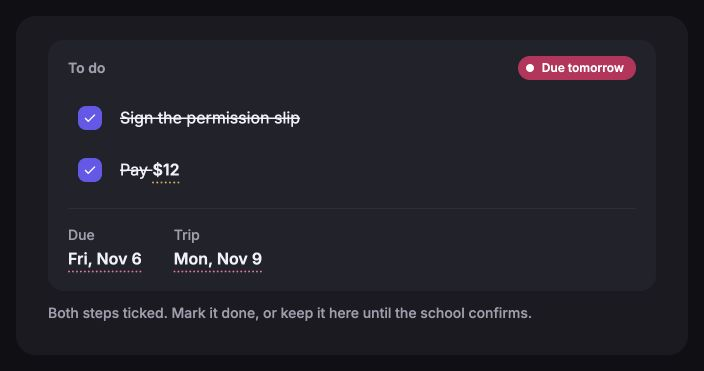
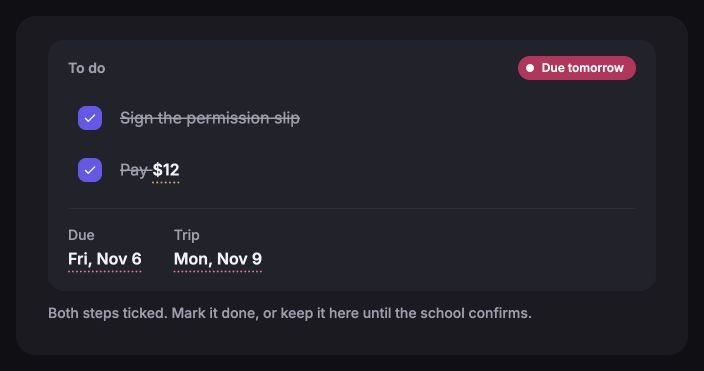
fix(ds): mute completed checklist text

Changed region(s): [[0.1562, 0.2965, 0.4375, 0.3558], [0.1562, 0.4447, 0.2188, 0.4744]]

diff --git a/src/design-system/components/Checkbox/Checkbox.module.css b/src/design-system/components/Checkbox/Checkbox.module.css
@@ -76,6 +76,7 @@
   color: var(--color-text-muted);
 }
 .completed {
+  color: var(--color-text-muted);
   text-decoration-line: line-through;
 }
 .completed :is(button, a) {

diff --git a/src/design-system/components/SceneCard/SceneCard.module.css b/src/design-system/components/SceneCard/SceneCard.module.css
@@ -179,5 +179,6 @@
   background: var(--fact-color);
 }
 .inlineFact {
+  display: inline-block;
   font-weight: var(--font-weight-semibold);
 }

diff --git a/docs/design-system.md b/docs/design-system.md
@@ -264,7 +264,7 @@ A 24 avatar (people tint, initial), followed by name and role.
 - Hit area: 44 (`--size-touch`). Ticking is the main action in a checklist, so it gets the full touch target; the box stays 24.
 - Hover: unchecked fills with `--color-sunken-hover`; checked uses `--color-brand-hover`. Pressed: `--color-sunken-pressed` or `--color-brand-pressed`. No extra outline; the outline is for keyboard focus only.
 - Disabled: `--color-surface-sunken` box, `--color-icon-muted` ring and check, and `--color-text-muted` label. Native disabled behavior prevents toggling; inline Fields retain their own styling and remain operable.
-- Role: `checkbox`. `checked` and `onCheckedChange` are controlled by the caller. The `label` slot accepts inline Fields; their clicks do not toggle the checkbox. For a rich label, `aria-label` can supply its plain spoken text. The caller sets `completed` when the checklist is complete; its text is struck through while fact controls retain their own underline and remain operable.
+- Role: `checkbox`. `checked` and `onCheckedChange` are controlled by the caller. The `label` slot accepts inline Fields; their clicks do not toggle the checkbox. For a rich label, `aria-label` can supply its plain spoken text. The caller sets `completed` when the checklist is complete; its text uses `--color-text-muted` with a strike-through. Inline Fields retain `--color-text`, their own underline, and no strike-through, and remain operable.
 
 ### Switch
 
